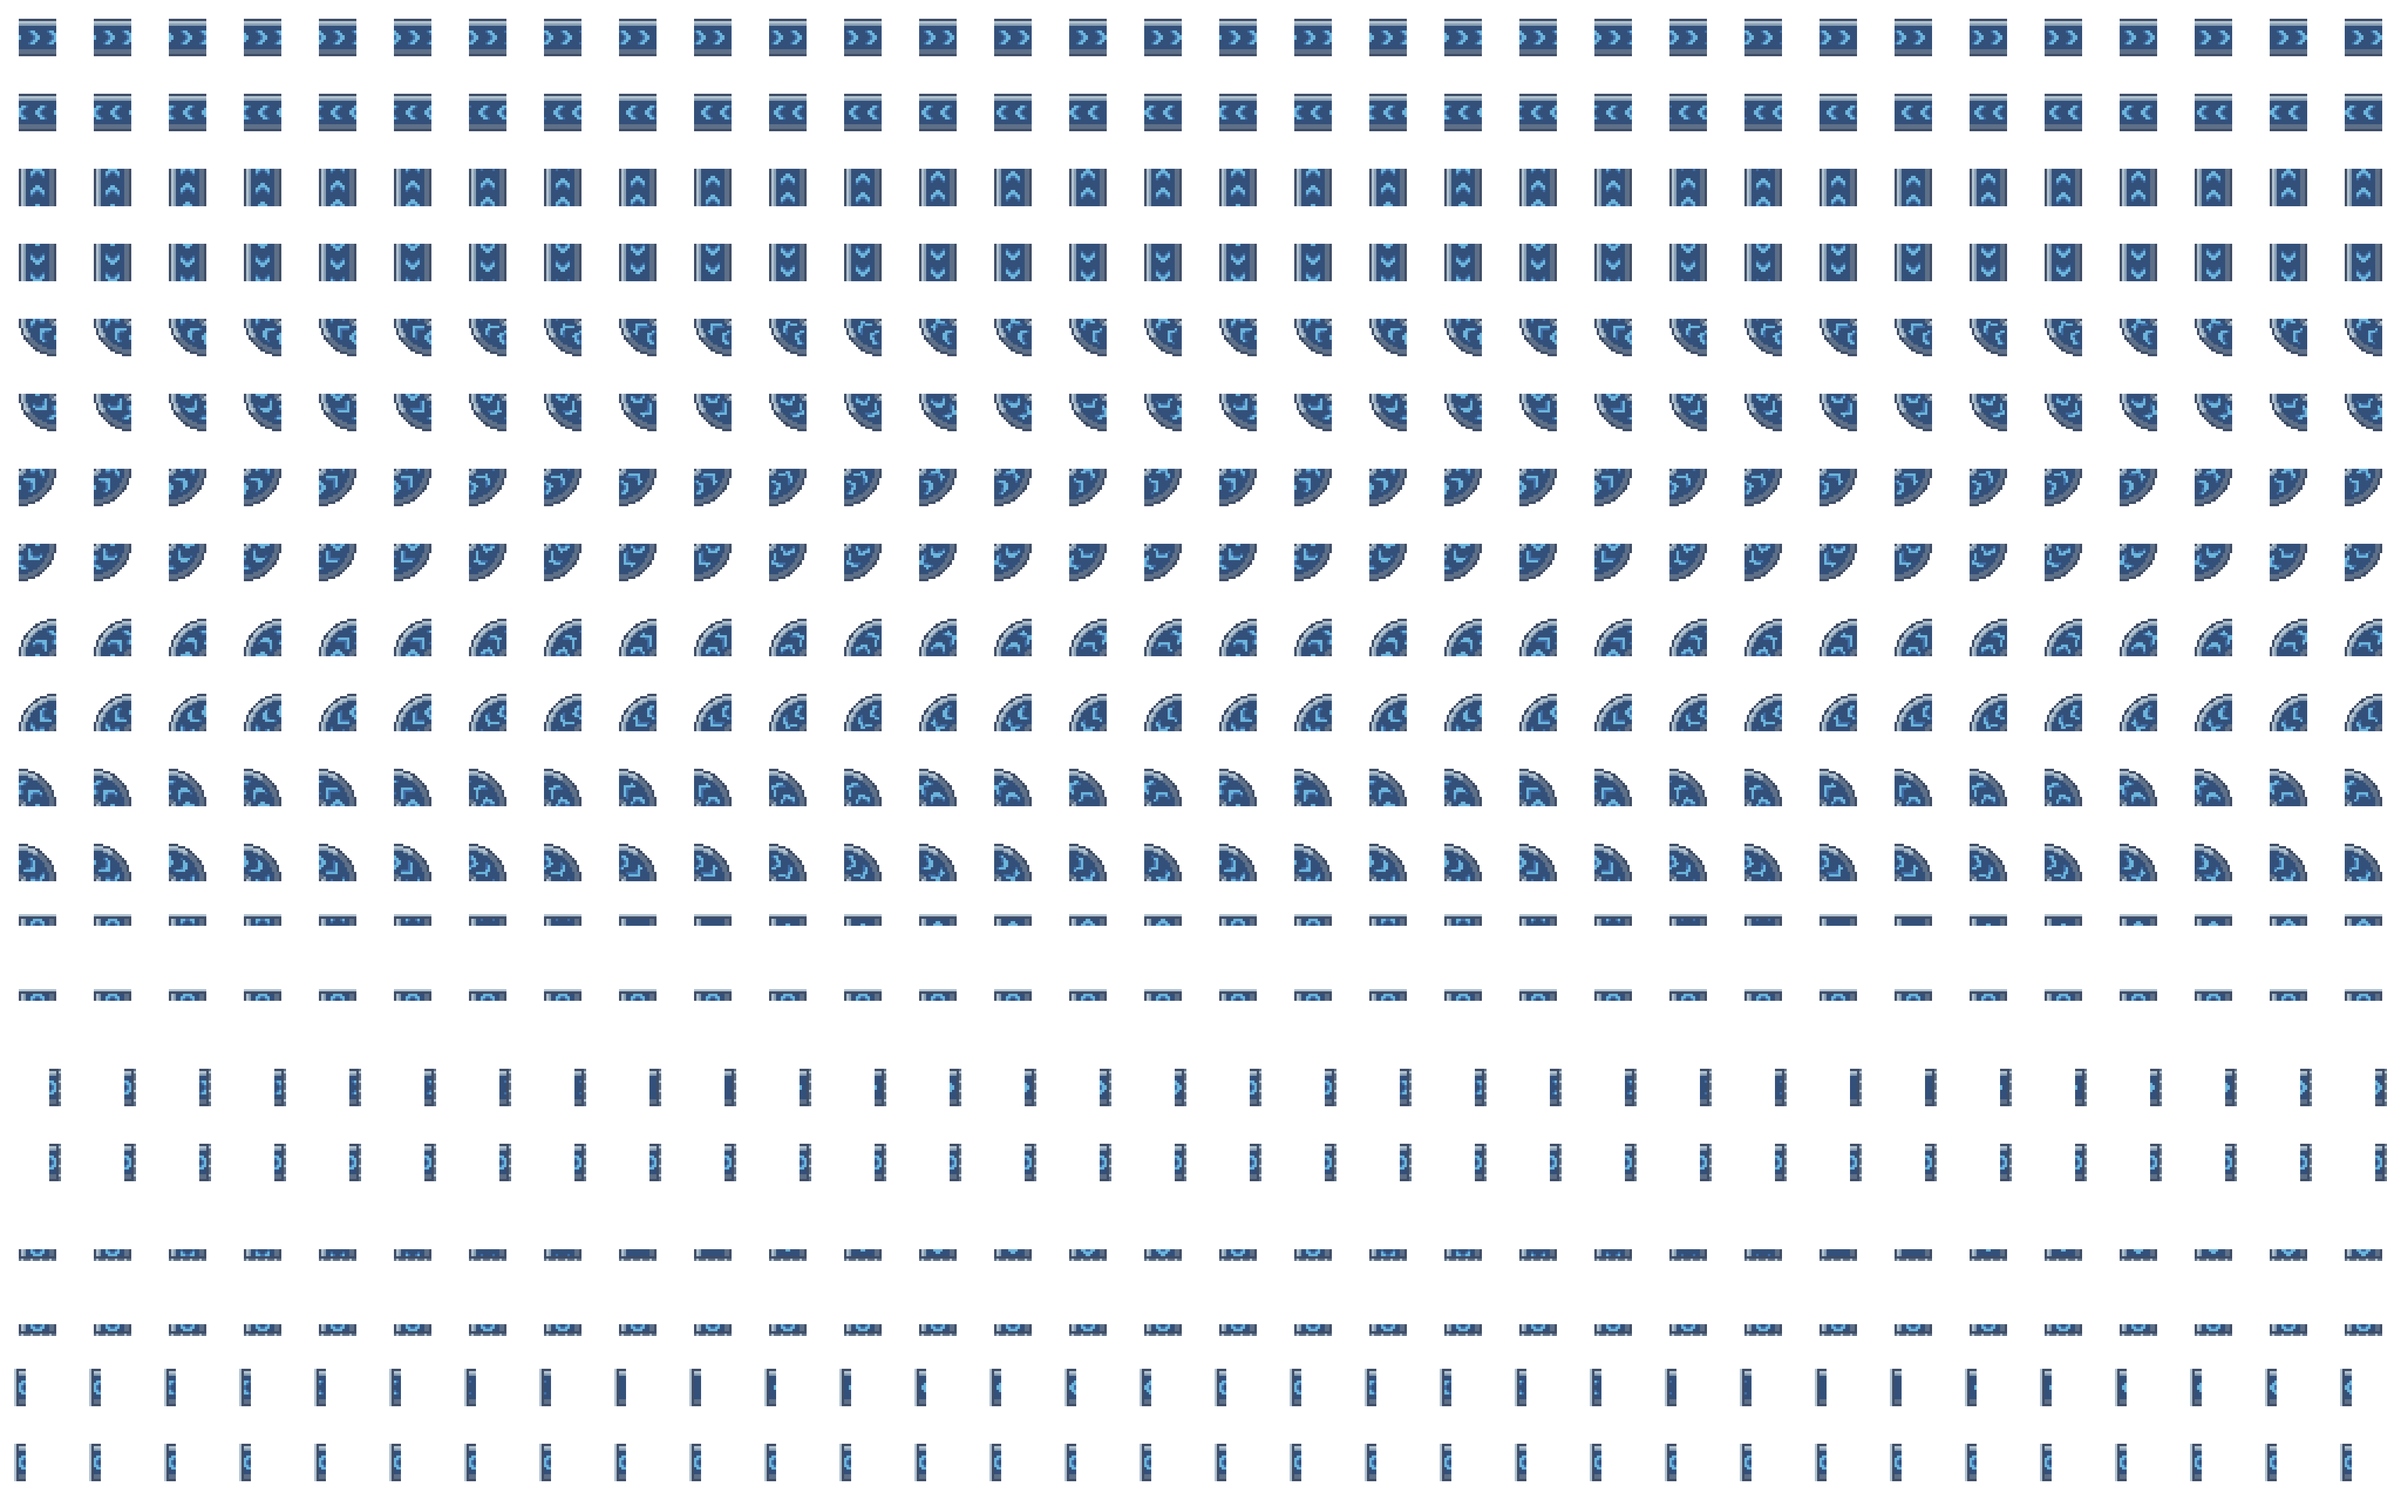
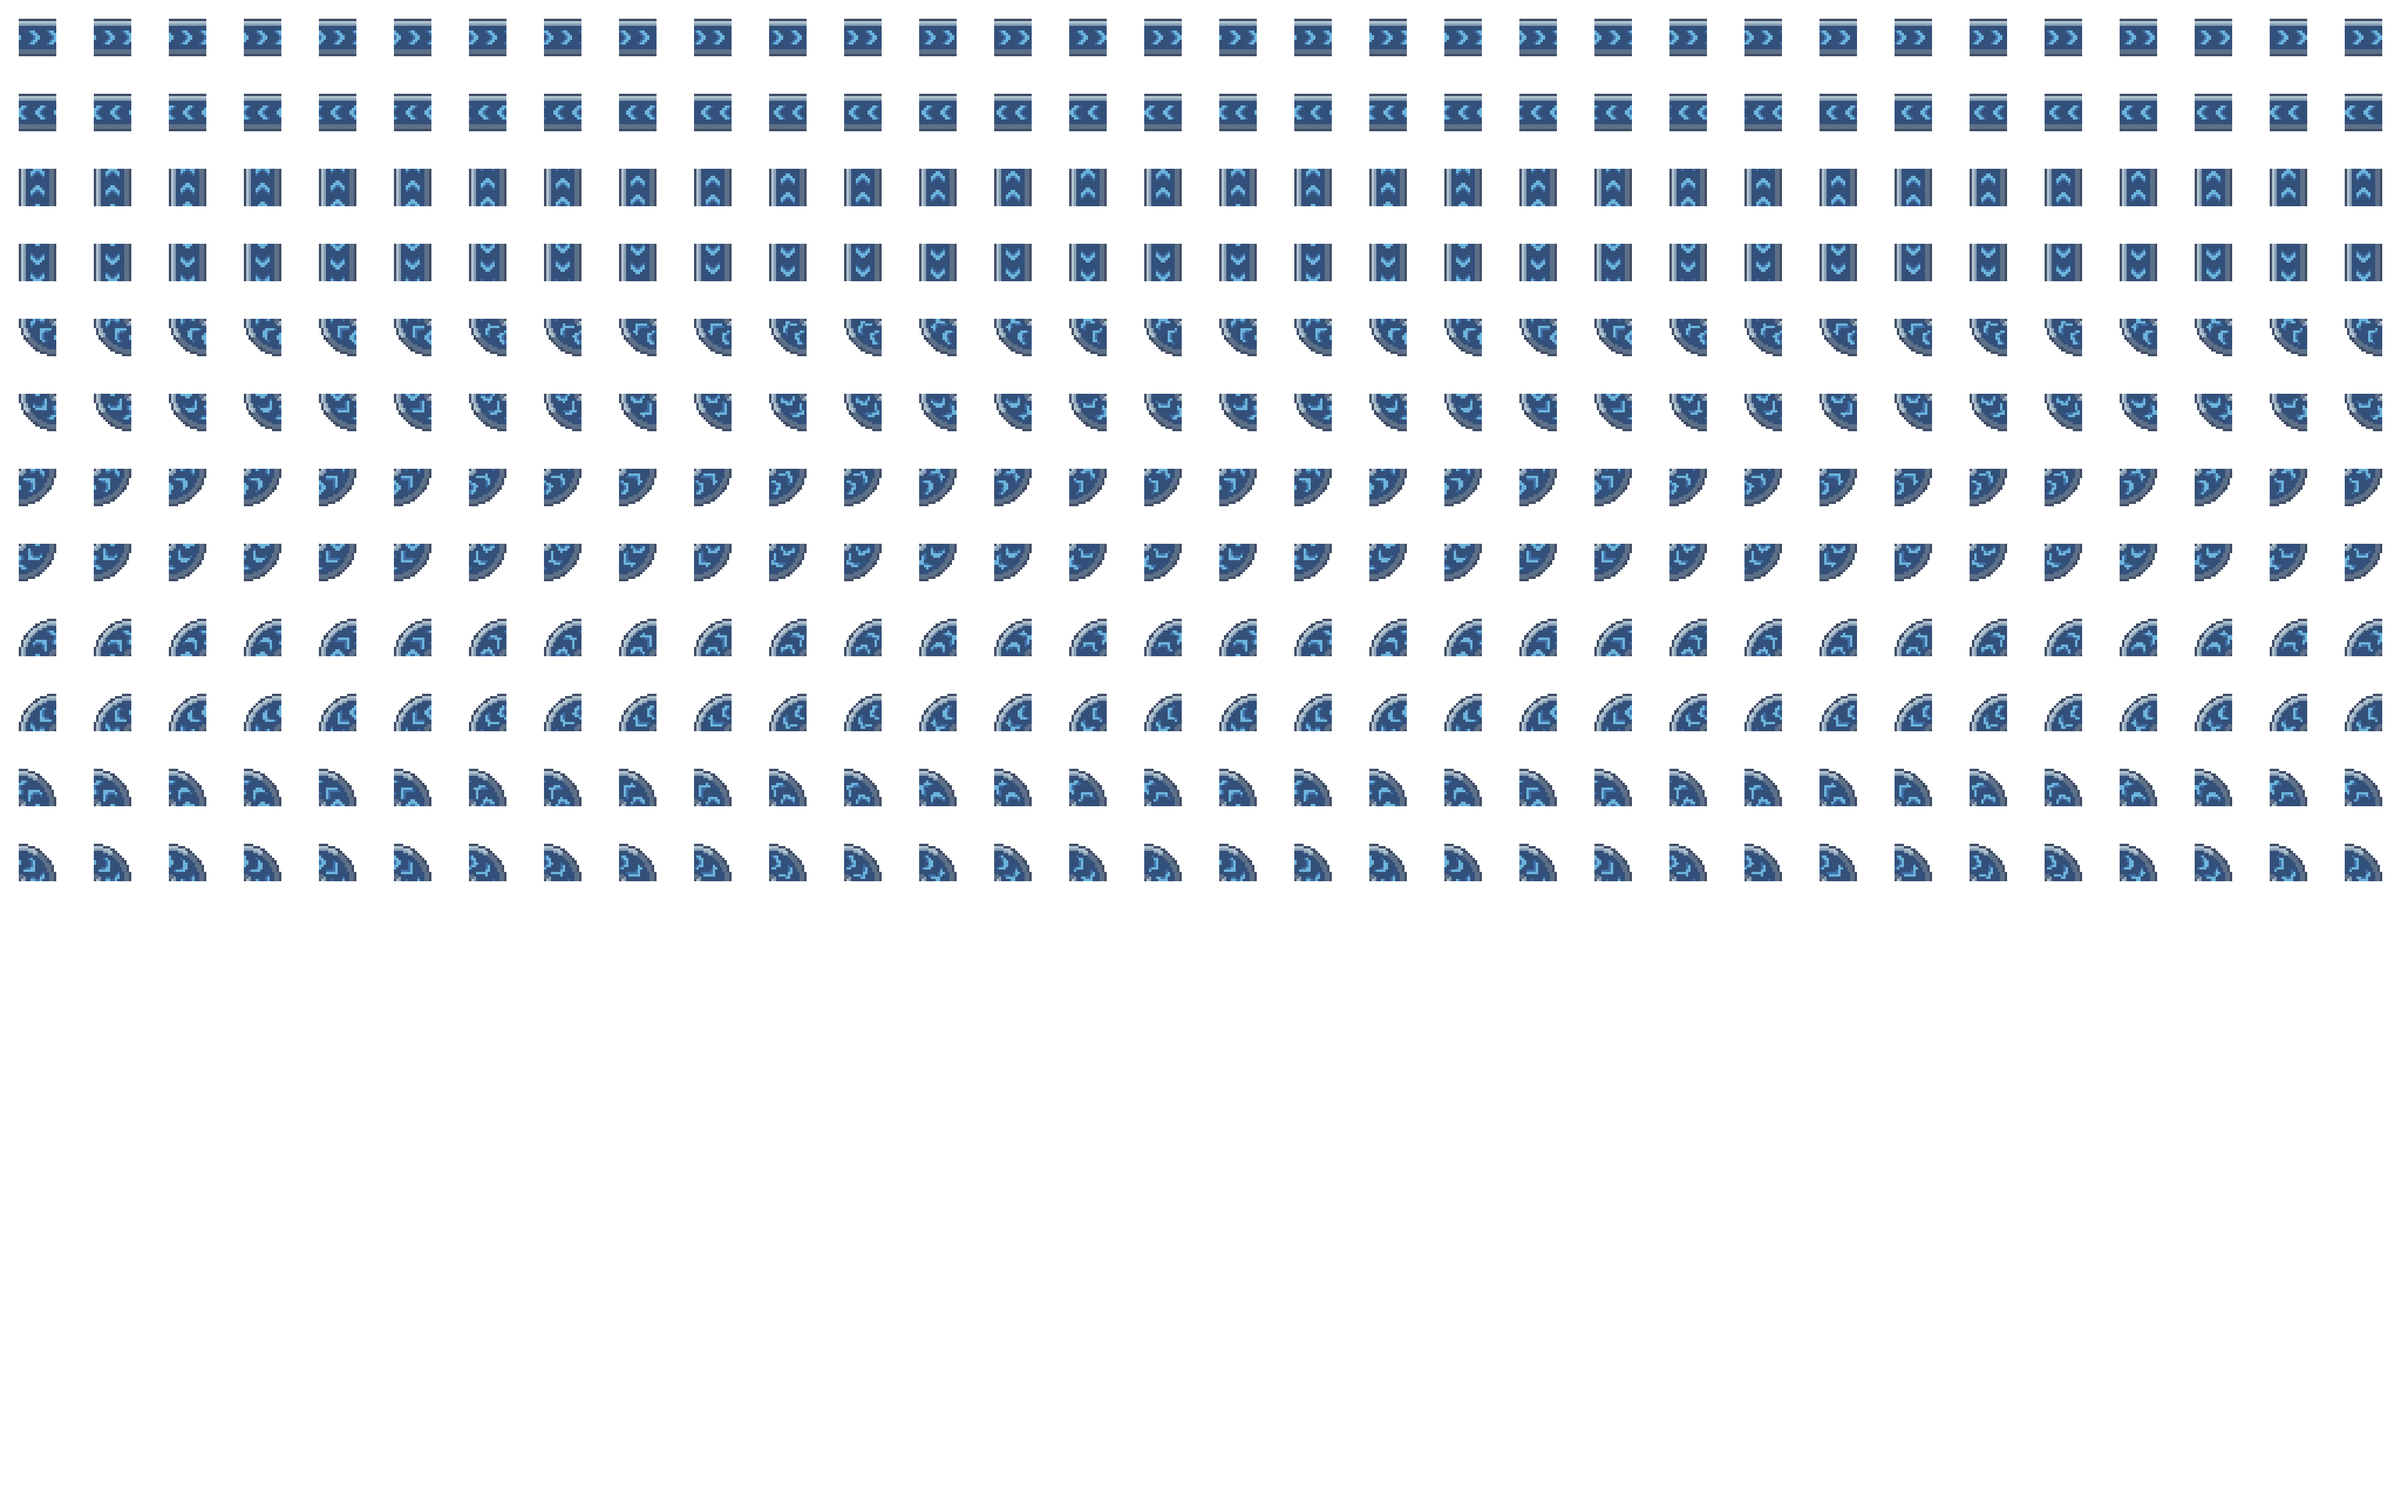
Pixel : supprime les bouts de ligne des convoyeurs (rangées 12 à 19 vides)

diff --git a/pixel/pillow/belt.py b/pixel/pillow/belt.py
@@ -111,8 +111,13 @@ CAP_BAND = 3          # largeur de la bande de tapis, dans la case
 CAP_ROLLER = 2        # largeur du rouleau, hors de la case
 
 
+END_CAPS = False      # décidé avec Bastien : pas de bout de ligne visible (les rangées 12 à 19 restent transparentes)
+
+
 def cap_piece(row, frame, tier):
     """Image de 20 x 20 : la case plus 2 px de marge ; (i, j) correspond au pixel (i - 2, j - 2) de la case."""
+    if not END_CAPS:
+        return Image.new("RGBA", (T + 2 * CAP_PAD, T + 2 * CAP_PAD), (0, 0, 0, 0))
     flow = CAP_FLOW[row - 12]
     off = (frame // 2) if row % 2 == 0 else 0
     img = Image.new("RGBA", (T + 2 * CAP_PAD, T + 2 * CAP_PAD), (0, 0, 0, 0))

diff --git a/pixel/STYLE.md b/pixel/STYLE.md
@@ -29,5 +29,5 @@ Référence pour tout sprite du mod pixel. Les couleurs vivent dans `pillow/pale
 
 ## Structures de convoyeurs
 - Souterrain : mêmes conventions que le mod cartoon (vérifiées en jeu). Le capot couvre la moitié aval de la case pour une entrée et la moitié amont pour une sortie ; la cellule « sortie » d'une colonne contient le capot de la direction opposée ; rangées 2 et 3 = copies des rangées 0 et 1 pour l'est et l'ouest ; pièces « patch » inchangées. Voûte à plaque de la teinte vive du convoyeur du même niveau et chevrons foncés, bouche (linteau, ouverture sombre visible quand elle regarde le sud) côté tapis, bout enterré plus bas. **[PROVISOIRE, à juger en jeu]**
-- Bouts de ligne des convoyeurs (rangées 12 à 19 de la planche) : bande de tapis au bord aval de la case avec un rouleau d'acier qui dépasse de 2 px. Les chevrons avancent dans le sens du flux ; rangées paires (12, 14, 16, 18) animées, impaires fixes. **[VALIDÉ par le mod cartoon]**
+- Bouts de ligne des convoyeurs (rangées 12 à 19 de la planche) : **volontairement vides** (décidé avec Bastien : ils paraissaient détachés et incohérents à côté des capots de souterrains). Le code qui les dessine reste dans `pillow/belt.py` (`END_CAPS`) : bande de tapis au bord aval, rouleau d'acier qui dépasse de 2 px, chevrons dans le sens du flux, rangées paires animées.
 - Répartiteur : poteaux d'extrémité, cloison avec nez diviseur côté entrée, rail à trois engrenages (acier, moyeu orange) qui tournent, capots à chevrons de la couleur du niveau côté sortie, deux voyants qui clignotent en alternance. **[PROVISOIRE]**
